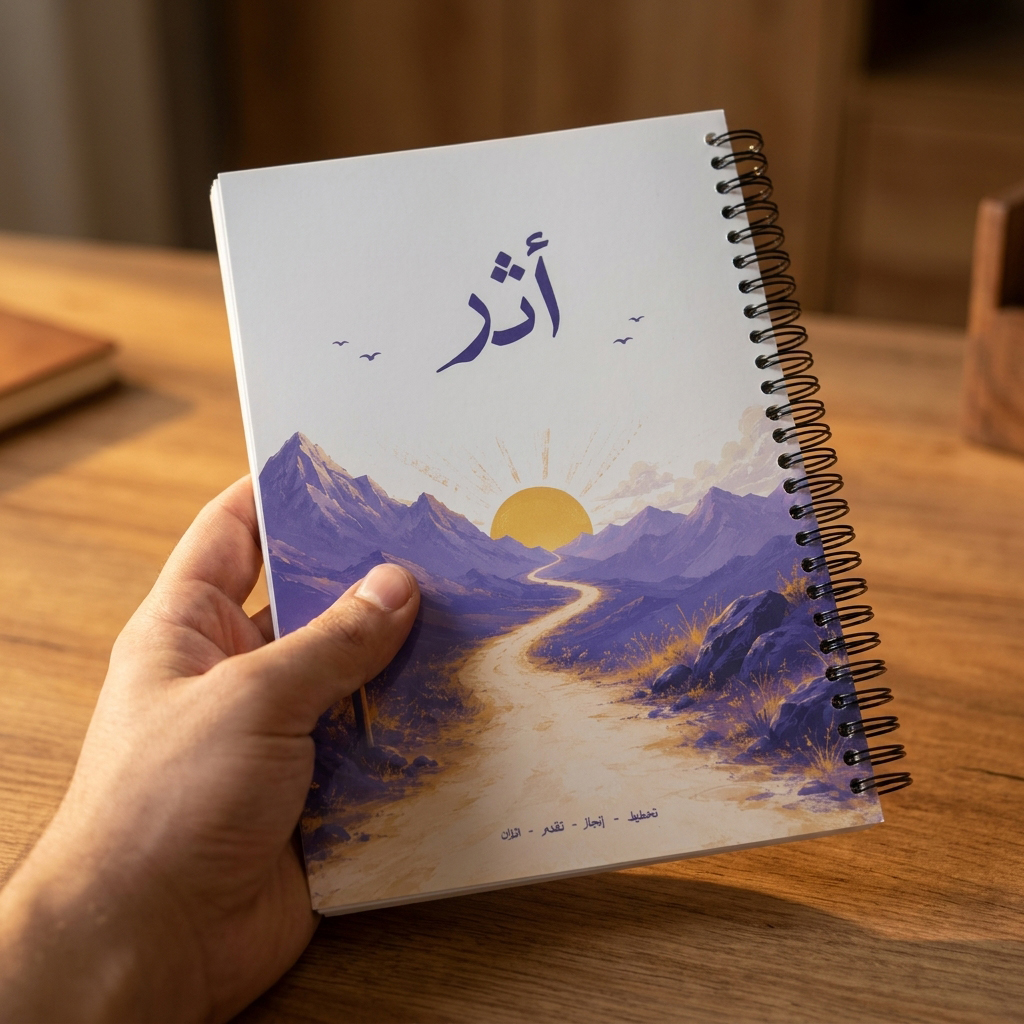
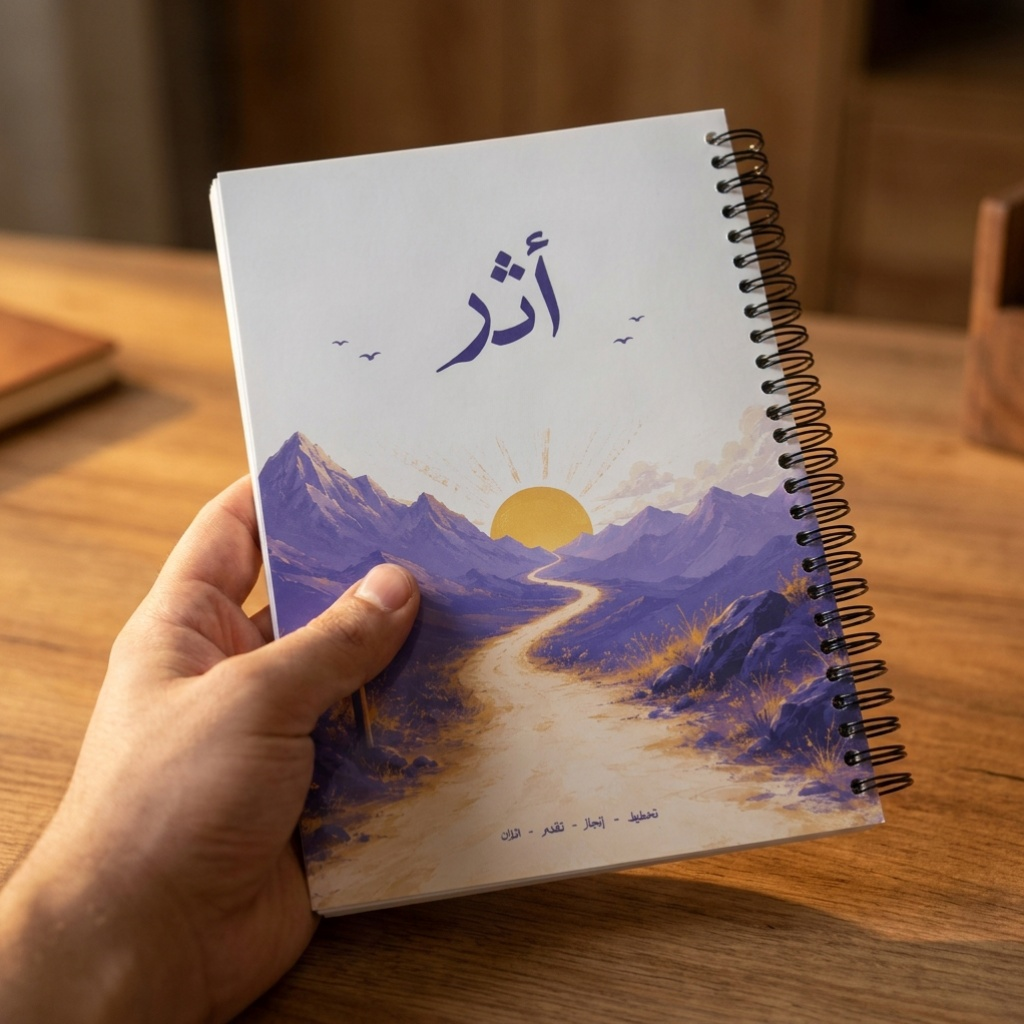
edit images

diff --git a/src/assets.js b/src/assets.js
@@ -7,11 +7,11 @@ const sticking_a_skull_sticker_on_end_week_paper =
   "/assets/images/athar/sticking-a-skull-sticker-on-end-week-paper.jpg";
 const holding_athar_on_sky_yellow_green_theme =
   "/assets/images/athar/holding-athar-on-sky-yellow-green-theme.jpeg";
-const athar_all_contents = "/assets/images/athar/athar-all-contents.png";
+const athar_all_contents = "/assets/images/athar/athar-all-contents.jpg";
 const athar_month_page_bunishments =
   "/assets/images/athar/athar-month-beginning-bunishments.jpeg";
 const athar_day_2_facing_pages =
-  "/assets/images/athar/athar-day-2-facing-pages.jpeg";
+  "/assets/images/athar/athar-day-2-facing-pages.png";
 
 export {
   daileme_logo_png_colored,
